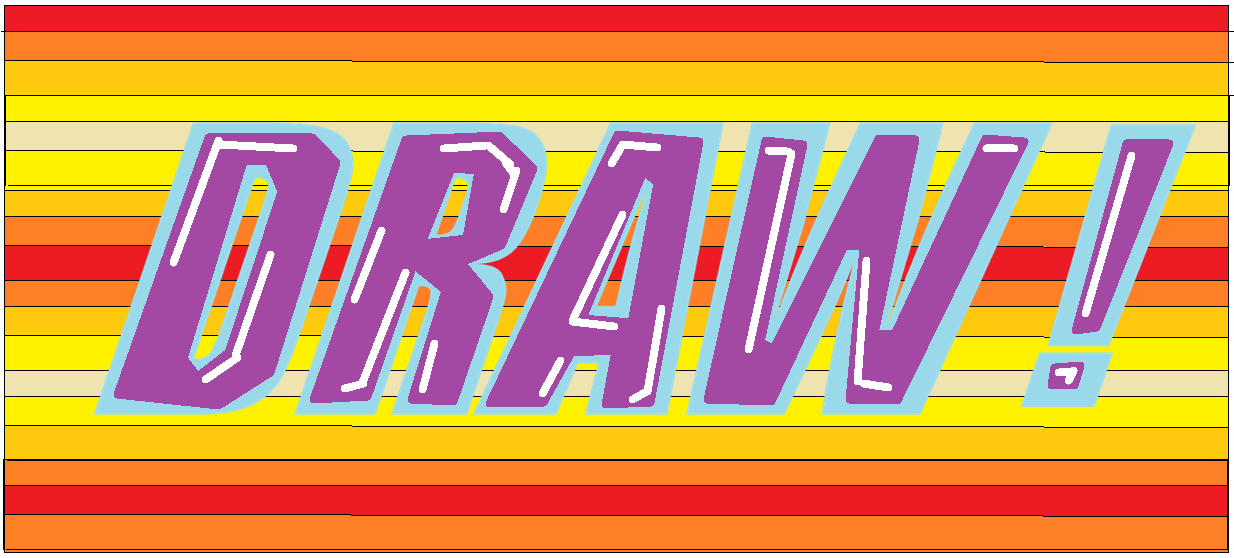
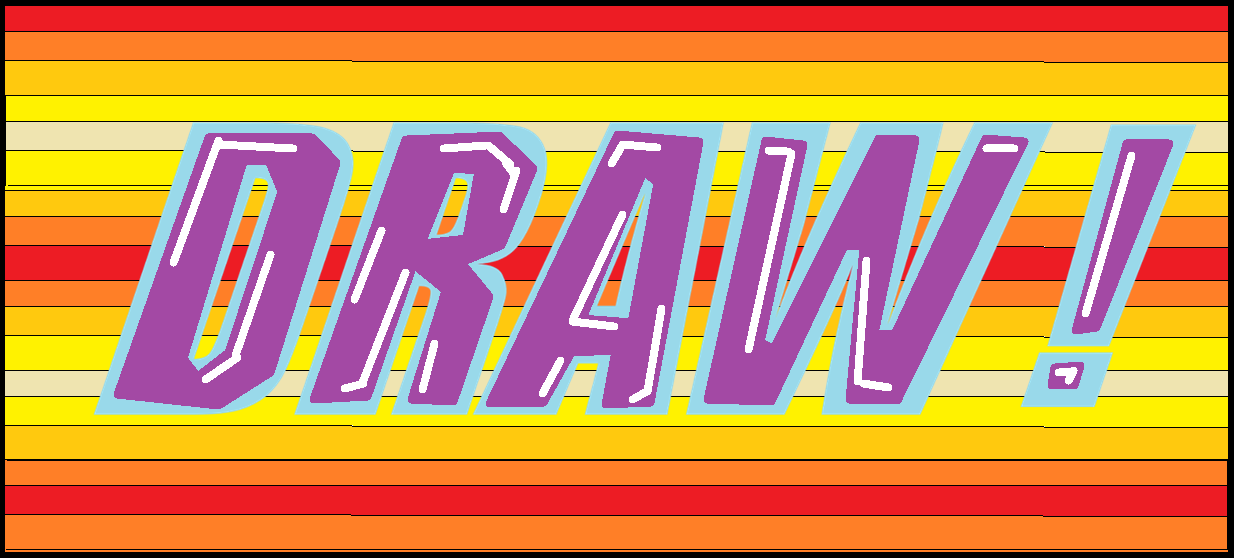
added game over screen

Changed region(s): [[0.0, 0.0, 1.0, 1.0]]

diff --git a/game.py b/game.py
@@ -12,6 +12,7 @@ o = PhotoImage(file='O.png')
 win_x = PhotoImage(file='Win_screen_X.png')
 win_o = PhotoImage(file='Win_screen_O.png')
 draw = PhotoImage(file='draw.png')
+gameover = PhotoImage(file= 'game_over.png')
 
 board.create_image(305, 305, image = bg)
 board.pack()
@@ -42,9 +43,7 @@ hitbox_centres = {
     4: (110,310), 5: (310,310), 6: (510,310),
     7: (110,510), 8: (310,510), 9: (510,510),
 }
-#conditions for winning: if any one number shows up 3 times in either the y or x coordinates
-#diagonals have more specific descriptions I think
-#if 
+
 def game(hitbox):
     global TURN
     shape = x if TURN % 2 == 0 else o
@@ -65,6 +64,7 @@ def game(hitbox):
         popup = Toplevel(window)
         winner =Label(popup, width=1234, height= 559, image= congrats)
         winner.pack()
+        board.create_image(305, 305, image = gameover)
     
 #For X
 #horizontal
@@ -112,5 +112,6 @@ def game(hitbox):
         popup = Toplevel(window)
         nowin = Label(popup, width=1234, height= 559, image= draw)
         nowin.pack()
+        board.create_image(305, 305, image = gameover)  
         
 window.mainloop()